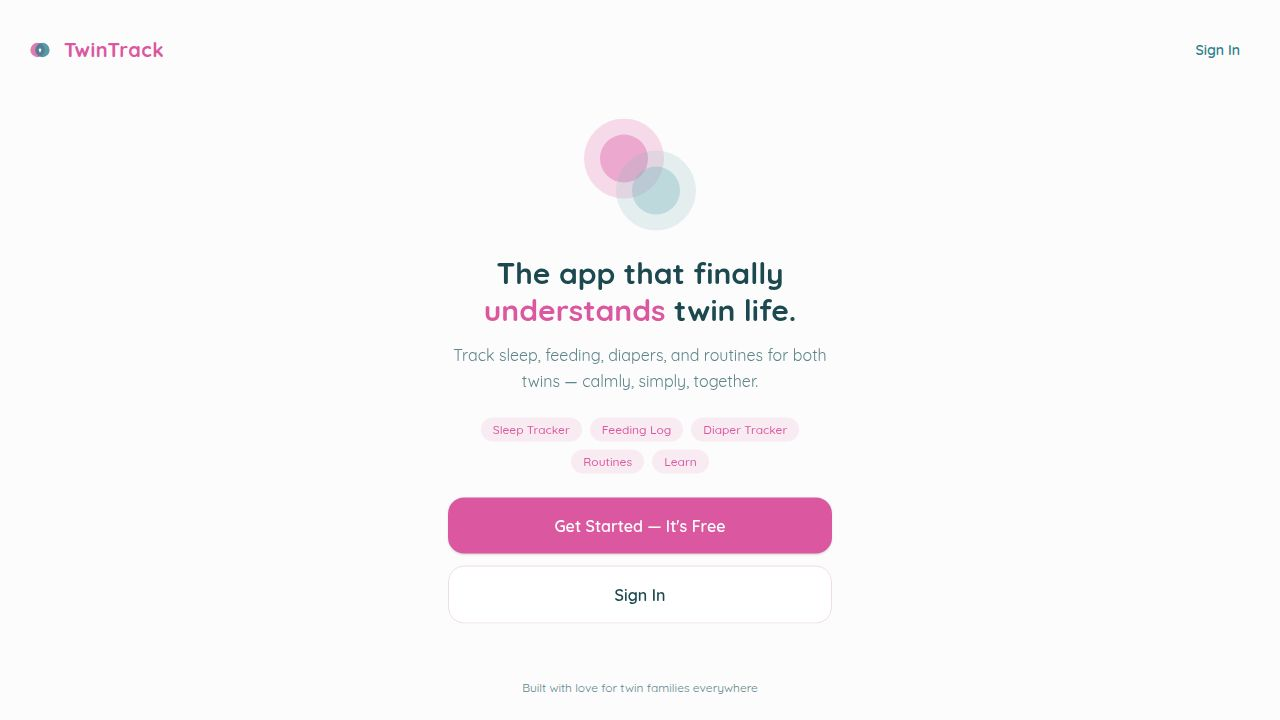
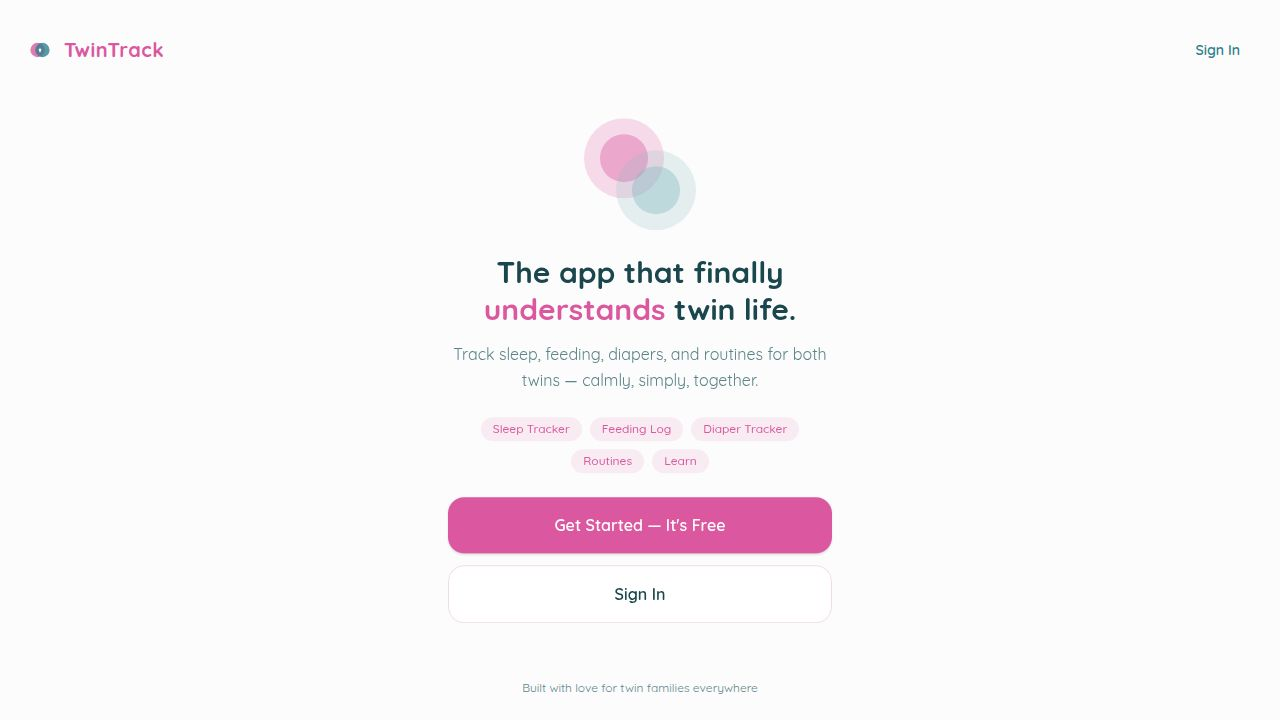
Add graceful fallback for subscription verification failures
Implement a caching mechanism in `usePlan.ts` to preserve user subscription status during RevenueCat outages. Introduce a `SubscriptionSafetyBanner` component displayed when cached data is used, and log verification failures to admin analytics. Update the admin dashboard to show subscription verification health metrics.

Replit-Commit-Author: Agent
Replit-Commit-Session-Id: f5ed3eb9-af06-40d8-8ca2-c9c312aa1837
Replit-Commit-Checkpoint-Type: full_checkpoint
Replit-Commit-Event-Id: 4fef0b07-f64f-43d3-98f0-75d989d6a953
Replit-Commit-Screenshot-Url: https://storage.googleapis.com/screenshot-production-us-central1/cb549dcf-6132-430c-bd0d-0a8318e29405/f5ed3eb9-af06-40d8-8ca2-c9c312aa1837/KL940fD
Replit-Helium-Checkpoint-Created: true

diff --git a/artifacts/twintrack/src/components/SubscriptionSafetyBanner.tsx b/artifacts/twintrack/src/components/SubscriptionSafetyBanner.tsx
@@ -1,0 +1,61 @@
+import { useState } from "react";
+import { usePlan } from "@/hooks/usePlan";
+
+const DISMISSED_KEY = "tt_sub_banner_dismissed";
+
+export default function SubscriptionSafetyBanner() {
+  const { isUsingCachedPlan, verificationFailed, isPremium, isInTrial } = usePlan();
+
+  const [dismissed, setDismissed] = useState<boolean>(() => {
+    try { return !!sessionStorage.getItem(DISMISSED_KEY); } catch { return false; }
+  });
+
+  const shouldShow = !dismissed && (isUsingCachedPlan || verificationFailed);
+
+  if (!shouldShow) return null;
+
+  const hasPremiumAccess = isPremium || isInTrial;
+
+  function dismiss() {
+    try { sessionStorage.setItem(DISMISSED_KEY, "1"); } catch {}
+    setDismissed(true);
+  }
+
+  return (
+    <div className="flex-shrink-0 px-4 py-2.5 bg-violet-50 border-b border-violet-200">
+      <div className="flex items-start gap-2">
+        <span className="text-base leading-none mt-0.5 flex-shrink-0">💜</span>
+        <div className="flex-1 min-w-0">
+          {isUsingCachedPlan && hasPremiumAccess ? (
+            <>
+              <p className="text-xs font-semibold text-violet-800 leading-snug">
+                Subscription status temporarily unavailable
+              </p>
+              <p className="text-xs text-violet-700 leading-snug mt-0.5">
+                Your access is preserved. We'll verify in the background.
+              </p>
+            </>
+          ) : (
+            <>
+              <p className="text-xs font-semibold text-violet-800 leading-snug">
+                Couldn't connect to verify your subscription
+              </p>
+              <p className="text-xs text-violet-700 leading-snug mt-0.5">
+                Please check your connection. Your data is safe.
+              </p>
+            </>
+          )}
+        </div>
+        <button
+          onClick={dismiss}
+          className="flex-shrink-0 text-violet-400 hover:text-violet-600 transition-colors p-0.5"
+          aria-label="Dismiss"
+        >
+          <svg width="14" height="14" viewBox="0 0 14 14" fill="none">
+            <path d="M1 1l12 12M13 1L1 13" stroke="currentColor" strokeWidth="1.8" strokeLinecap="round"/>
+          </svg>
+        </button>
+      </div>
+    </div>
+  );
+}

diff --git a/artifacts/twintrack/src/hooks/usePlan.ts b/artifacts/twintrack/src/hooks/usePlan.ts
@@ -1,5 +1,6 @@
 import { useUser } from "@clerk/react";
 import { useQuery } from "@tanstack/react-query";
+import { useEffect, useRef } from "react";
 
 export interface PlanPricing {
   monthly: { cents: number; label: string };
@@ -20,6 +21,32 @@ export interface PlanData {
   pricing: PlanPricing;
 }
 
+const CACHE_KEY = "tt_plan_cache";
+const CACHE_TTL_MS = 7 * 24 * 60 * 60 * 1000; // 7 days
+
+interface PlanCache {
+  data: PlanData;
+  ts: number;
+}
+
+function saveCache(data: PlanData): void {
+  try {
+    localStorage.setItem(CACHE_KEY, JSON.stringify({ data, ts: Date.now() } satisfies PlanCache));
+  } catch {}
+}
+
+function loadCache(): PlanData | null {
+  try {
+    const raw = localStorage.getItem(CACHE_KEY);
+    if (!raw) return null;
+    const parsed: PlanCache = JSON.parse(raw);
+    if (Date.now() - parsed.ts > CACHE_TTL_MS) return null;
+    return parsed.data;
+  } catch {
+    return null;
+  }
+}
+
 export function usePlan() {
   const { user } = useUser();
 
@@ -28,14 +55,36 @@ export function usePlan() {
     queryFn: async () => {
       const res = await fetch("/api/plan");
       if (!res.ok) throw new Error("Failed to fetch plan");
-      return res.json() as Promise<PlanData>;
+      const data = res.json() as Promise<PlanData>;
+      const resolved = await data;
+      saveCache(resolved);
+      return resolved;
     },
     enabled: !!user?.id,
     staleTime: 5 * 60 * 1000,
     retry: 2,
   });
 
-  const data = query.data;
+  const cachedData = query.isError ? loadCache() : null;
+  const isUsingCachedPlan = query.isError && cachedData !== null;
+  const verificationFailed = query.isError && cachedData === null;
+
+  const loggedRef = useRef(false);
+  useEffect(() => {
+    if (isUsingCachedPlan && !loggedRef.current) {
+      loggedRef.current = true;
+      trackPlanEvent("rc_verification_failure", {
+        reason: "api_fetch_failed",
+        fromCache: true,
+        cachedStatus: cachedData?.status ?? null,
+      });
+    }
+    if (!query.isError) {
+      loggedRef.current = false;
+    }
+  }, [isUsingCachedPlan, query.isError, cachedData?.status]);
+
+  const data = query.data ?? cachedData ?? null;
 
   return {
     plan: data?.plan ?? ("free" as const),
@@ -48,6 +97,8 @@ export function usePlan() {
     isFoundingMom: data?.isFoundingMom ?? false,
     pricing: data?.pricing ?? null,
     isLoading: query.isLoading,
+    isUsingCachedPlan,
+    verificationFailed,
   };
 }
 

diff --git a/artifacts/api-server/src/routes/admin.ts b/artifacts/api-server/src/routes/admin.ts
@@ -485,10 +485,13 @@ router.get("/admin/founding-moms", async (req, res): Promise<void> => {
   const in3Days = new Date(now.getTime() + 3 * 24 * 60 * 60 * 1000);
   const in7Days = new Date(now.getTime() + 7 * 24 * 60 * 60 * 1000);
 
+  const sevenDaysAgo = new Date(now.getTime() - 7 * 24 * 60 * 60 * 1000);
+
   const [
     [total], [active],
     [ending7], [ending3], [ending1],
     [foundingConv], [annual], [monthly],
+    [verificationFailures7d], [verificationFailuresTotal],
   ] = await Promise.all([
     db.select({ c: count() }).from(userPlansTable),
     db.select({ c: count() }).from(userPlansTable).where(
@@ -512,6 +515,12 @@ router.get("/admin/founding-moms", async (req, res): Promise<void> => {
     db.select({ c: count() }).from(userPlansTable).where(
       and(eq(userPlansTable.plan, "monthly"), eq(userPlansTable.status, "active")),
     ),
+    db.select({ c: count() }).from(analyticsEventsTable).where(
+      and(eq(analyticsEventsTable.event, "rc_verification_failure"), gte(analyticsEventsTable.createdAt, sevenDaysAgo)),
+    ),
+    db.select({ c: count() }).from(analyticsEventsTable).where(
+      eq(analyticsEventsTable.event, "rc_verification_failure"),
+    ),
   ]);
 
   const totalN    = Number(total?.c    ?? 0);
@@ -524,17 +533,19 @@ router.get("/admin/founding-moms", async (req, res): Promise<void> => {
   const mrr = Math.round((annualN * (49 / 12) + monthlyN * 5.99 + foundingN * (39 / 12)) * 100) / 100;
 
   res.json({
-    totalTrialUsers:        totalN,
-    activeTrialUsers:       Number(active?.c   ?? 0),
-    endingIn7Days:          Number(ending7?.c  ?? 0),
-    endingIn3Days:          Number(ending3?.c  ?? 0),
-    endingIn1Day:           Number(ending1?.c  ?? 0),
-    foundingMomConversions: foundingN,
-    annualPurchases:        annualN,
-    monthlyPurchases:       monthlyN,
+    totalTrialUsers:            totalN,
+    activeTrialUsers:           Number(active?.c   ?? 0),
+    endingIn7Days:              Number(ending7?.c  ?? 0),
+    endingIn3Days:              Number(ending3?.c  ?? 0),
+    endingIn1Day:               Number(ending1?.c  ?? 0),
+    foundingMomConversions:     foundingN,
+    annualPurchases:            annualN,
+    monthlyPurchases:           monthlyN,
     conversionPct,
     mrr,
-    arr: Math.round(mrr * 12 * 100) / 100,
+    arr:                        Math.round(mrr * 12 * 100) / 100,
+    verificationFailures7d:     Number(verificationFailures7d?.c  ?? 0),
+    verificationFailuresTotal:  Number(verificationFailuresTotal?.c ?? 0),
   });
 });
 

diff --git a/artifacts/twintrack/src/pages/Admin.tsx b/artifacts/twintrack/src/pages/Admin.tsx
@@ -114,6 +114,8 @@ interface FoundingMomsDashboard {
   conversionPct: number;
   mrr: number;
   arr: number;
+  verificationFailures7d: number;
+  verificationFailuresTotal: number;
 }
 
 interface ContentAnalytics {
@@ -1168,6 +1170,32 @@ export default function Admin() {
                     );
                   })}
                 </div>
+              </div>
+
+              {/* Subscription verification failures */}
+              <div className={`rounded-2xl p-4 border mb-4 ${foundingMomsDashboard.verificationFailures7d > 0 ? "bg-rose-50 border-rose-200" : "bg-white border-border"}`}>
+                <p className="text-xs font-bold text-muted-foreground uppercase tracking-wide mb-3">
+                  🔍 Subscription Verification Health
+                </p>
+                <div className="grid grid-cols-2 gap-3">
+                  <div className={`rounded-xl p-3 ${foundingMomsDashboard.verificationFailures7d > 0 ? "bg-rose-100" : "bg-muted/40"}`}>
+                    <p className={`text-2xl font-bold ${foundingMomsDashboard.verificationFailures7d > 0 ? "text-rose-700" : "text-foreground"}`}>
+                      {foundingMomsDashboard.verificationFailures7d}
+                    </p>
+                    <p className="text-xs text-muted-foreground mt-0.5">Failures last 7 days</p>
+                  </div>
+                  <div className="rounded-xl p-3 bg-muted/40">
+                    <p className="text-2xl font-bold text-foreground">{foundingMomsDashboard.verificationFailuresTotal}</p>
+                    <p className="text-xs text-muted-foreground mt-0.5">All-time failures</p>
+                  </div>
+                </div>
+                {foundingMomsDashboard.verificationFailures7d === 0 ? (
+                  <p className="text-xs text-green-700 mt-2 font-medium">✅ All subscription checks healthy — no fallbacks triggered</p>
+                ) : (
+                  <p className="text-xs text-rose-700 mt-2">
+                    ⚠️ Users fell back to cached plan data. Check API server logs for <code className="bg-rose-100 px-1 rounded">rc_verification_failure</code> events.
+                  </p>
+                )}
               </div>
 
               {/* Export CSV */}

diff --git a/artifacts/twintrack/src/components/Layout.tsx b/artifacts/twintrack/src/components/Layout.tsx
@@ -7,6 +7,7 @@ import { useSubmitFeedback } from "@workspace/api-client-react";
 import NotificationCenter from "@/components/NotificationCenter";
 import InstallPrompt from "@/components/InstallPrompt";
 import OfflineBanner from "@/components/OfflineBanner";
+import SubscriptionSafetyBanner from "@/components/SubscriptionSafetyBanner";
 import FoundingMomsButton from "@/components/FoundingMomsButton";
 import { useAppPrefs } from "@/hooks/useAppPrefs";
 import { posthog } from "@/lib/posthog";
@@ -186,6 +187,7 @@ export default function Layout({ children }: { children: React.ReactNode }) {
     // Facebook/Instagram WebView and iOS Safari where fixed + transform can fail.
     <div className="flex flex-col h-[100dvh] max-w-[430px] mx-auto bg-background overflow-hidden">
       <OfflineBanner />
+      <SubscriptionSafetyBanner />
 
       {/* Top header — never scrolls */}
       <div className="flex-shrink-0 bg-white border-b border-border/30">